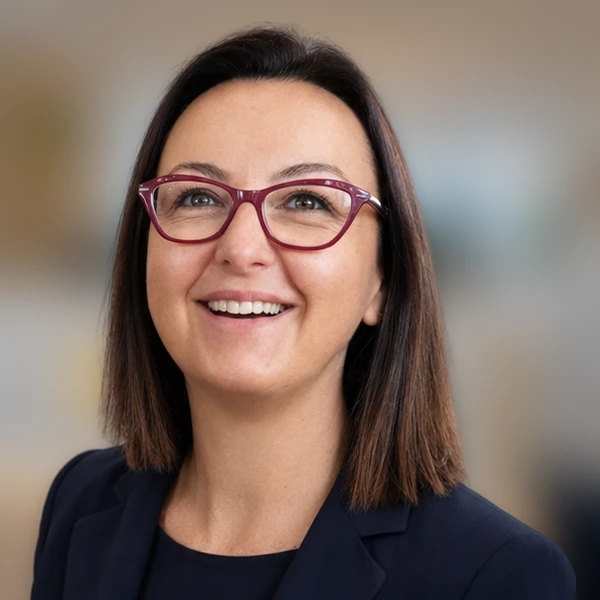
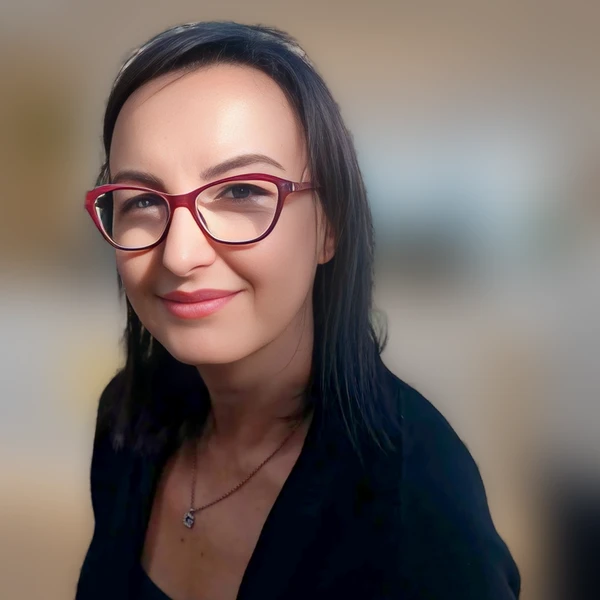
feat(site): rename AI agents (Stefania→Simona, Matteo→Carlo) + new photos
- Rename the two AI agents that collided with the human team: Stefania→Simona,
  Matteo→Carlo (site institutional only; Ciak app to be mapped separately)
- Simona keeps the previous avatar (renamed simona.jpg); Carlo gets a new
  headshot cut from the course cover; remove old matteo.jpg agent photo
- Replace human Stefania R. team photo with her real portrait (office bg)

diff --git a/evolution-pro-site/src/content/siteContent.ts b/evolution-pro-site/src/content/siteContent.ts
@@ -59,7 +59,7 @@ export const siteContent: SiteContent = {
   },
   agents: [
     {
-      name: 'Stefania',
+      name: 'Simona',
       role: 'Coordinatrice del tuo percorso',
       message: 'Ti aiuto a rimettere in ordine il percorso.',
     },
@@ -84,7 +84,7 @@ export const siteContent: SiteContent = {
       message: 'Ti aiuto a mantenere alta la trazione fino al go-live.',
     },
     {
-      name: 'Matteo',
+      name: 'Carlo',
       role: 'Analista Ciak Blueprint',
       message: 'Ti aiuto a trasformare i dati in decisioni concrete.',
     },
